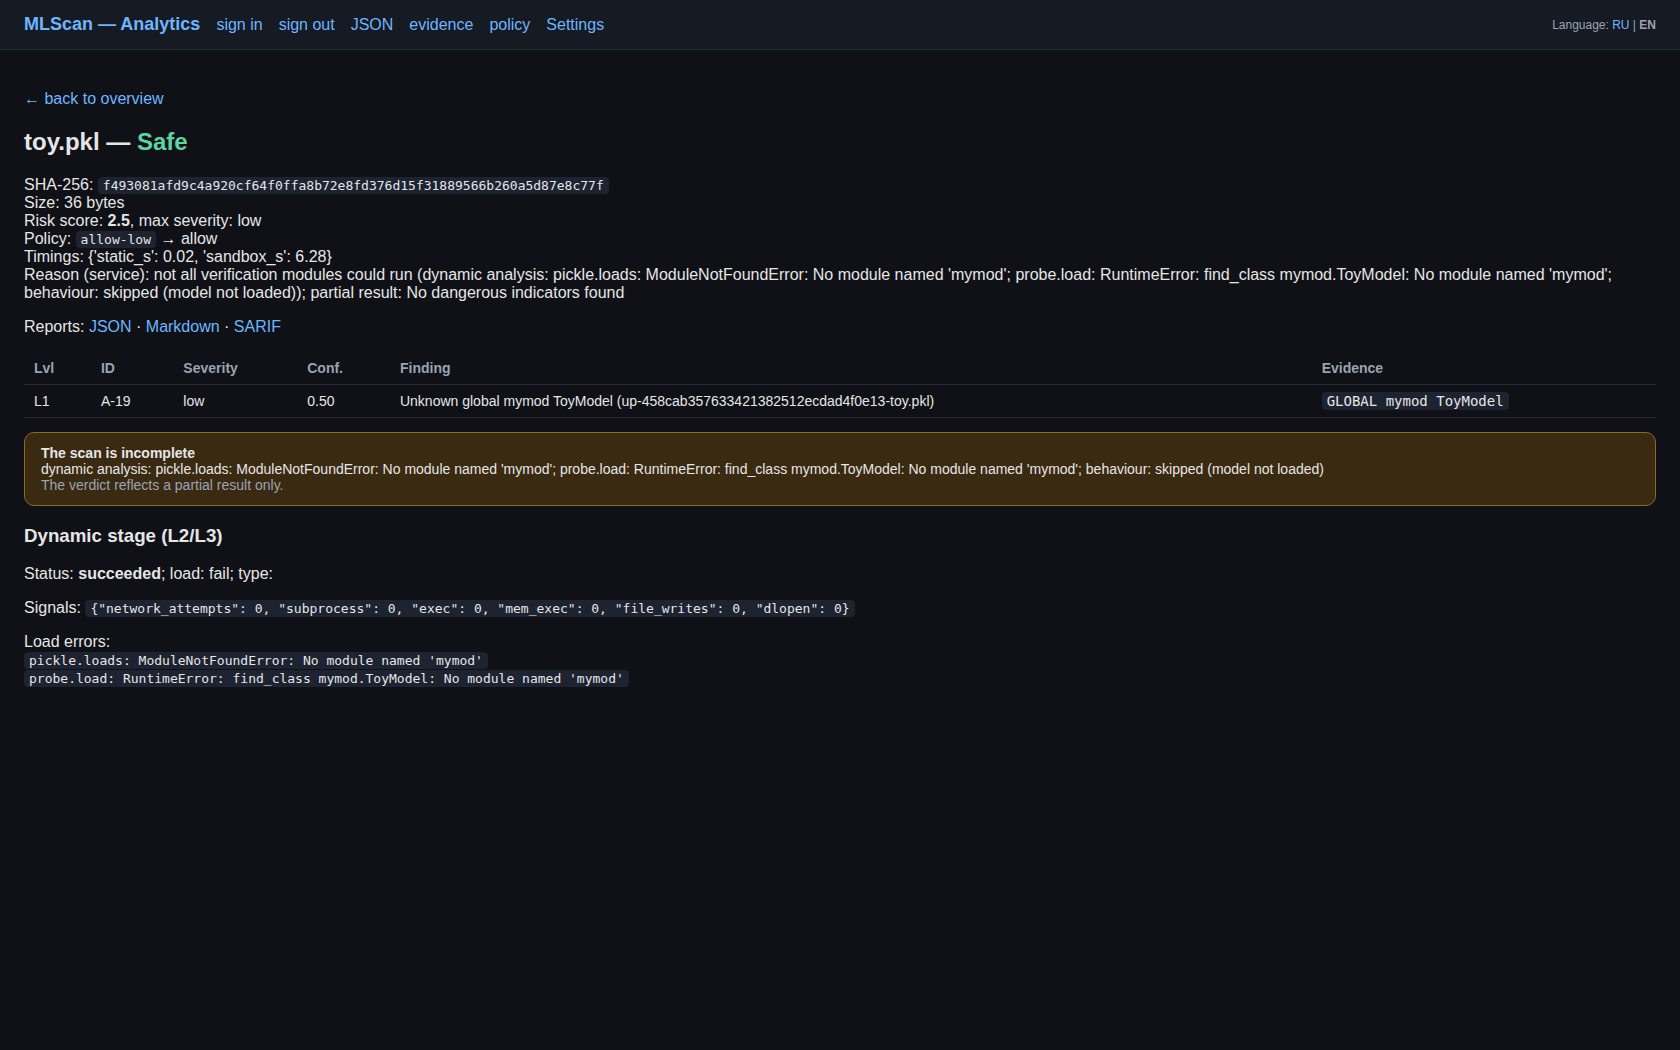
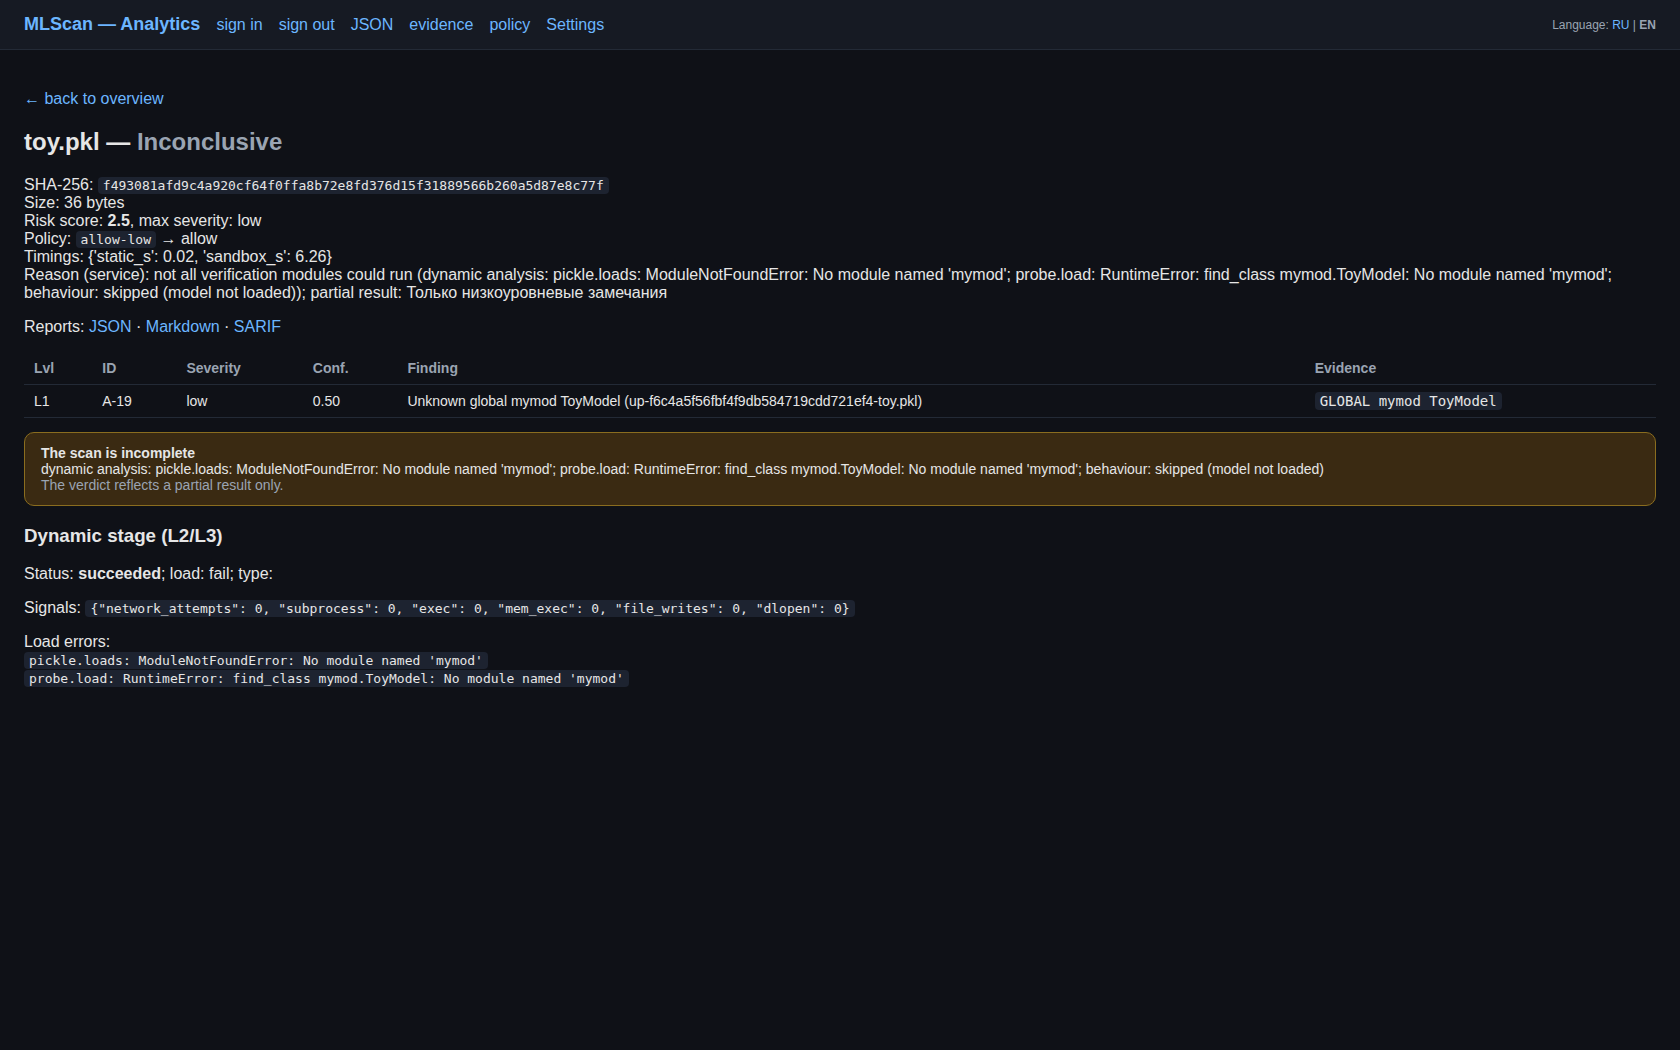
docs: actualize repository and UI screenshots
Screenshots (RU + EN, re-captured on the current stand with 3575 scans):
- login, login with an expired-session notice (new), dashboard, settings (global language),
  incomplete scan (Inconclusive + coverage banner), large torch model card, format (.mar) card;
- verified by OCR: 'Показано: 3575 из 3575' / 'Showing 3575 of 3575', INCONCLUSIVE/MALICIOUS cards,
  'Проверка выполнена не полностью' / 'The scan is incomplete', 'session has expired'.

Repository actualization:
- README (RU/EN): the formats section now lists every supported model/package/data format
  (notebooks, scripts, MLflow, SavedModel, TFLite, CoreML, PMML, Parquet/Arrow, TorchScript,
  Dockerfile, HTML/SVG, JSONL/CSV, compressed payloads, wheel/.pth, native libraries, msgpack,
  unsupported containers), the detector table gained SEC-* plus notes on nested archives, INJ-06,
  FMT-12, EXEC-08 and coverage-aware verdicts, and the sandbox image is described as :v4
  (+onnx, pyarrow, PyYAML); the screenshots section documents the new screenshots;
- docs/10: status raised to waves 1-7 implemented with a summary of each wave;
- Concept.md: implemented list extended with waves 4-7 and coverage accounting;
- docs/01 (RU/EN): pointer from the threat catalogue to the implemented checks and corpus;
- docs/09 (RU/EN): status notes that most of the analysed formats are implemented;
- docs/11 (RU/EN): implementation table gained coverage accounting and the corpus rows.

diff --git a/README.en.md b/README.en.md
@@ -126,9 +126,15 @@ planes (analytics, DB, UI) stay in the trusted zone.
 
 ### Formats
 
-pickle and derivatives (`.pkl/.pickle`, `.joblib`, `.dill`, `.cloudpickle`, `.pt/.pth/.bin/.ckpt`,
-`.npy/.npz`), SafeTensors, ONNX, HDF5/`.keras`, GGUF, archives (`.zip/.tar`), XML/YAML configs,
-model cards, tokenizer artifacts, MCP/agent manifests.
+**Models:** pickle and derivatives (`.pkl/.pickle`, `.joblib`, `.dill`, `.cloudpickle`,
+`.pt/.pth/.bin/.ckpt`), `.npy/.npz`, SafeTensors, ONNX, HDF5/`.keras`, GGUF, TFLite, CoreML,
+TorchScript/torch.package, TF SavedModel/`.pb`, PMML, MLflow models, model-as-code (`.mar`,
+`model.py`), Parquet/Arrow/Feather datasets.
+**Packages and data:** archives (`.zip/.tar/.tar.gz/.whl`), compressed payloads (`.gz/.bz2/.xz`),
+JSONL/CSV/TSV datasets, MessagePack, notebooks (`.ipynb`), scripts (`.sh/.ps1/.bat`), Dockerfiles,
+HTML/SVG documents, Jinja templates (`.j2`), XML/YAML/JSON configs, model cards, tokenizer artifacts,
+MCP/agent manifests, native libraries (`.so/.dll/.dylib`), `.pth` hooks, and unsupported containers
+(7z/rar/zstd - an honest "cannot be parsed").
 
 ### Detectors (check IDs)
 
@@ -143,11 +149,19 @@ model cards, tokenizer artifacts, MCP/agent manifests.
 | `INT-*` | integrity and supply chain (external URLs, install hooks in archives) |
 | `STEG-*` | covert channels (trailing data after EOCD, entropy blobs, polyglot containers) |
 | `D-*` | integrity/signature/provenance, "non-pickle" formats |
+| `SEC-*` | secret and token leaks (AWS keys, private keys, HF/GitHub/Slack tokens) |
 
-The sandbox image `mlscan-sandbox` (built with Kaniko) contains libraries for dynamic model
-execution: **PyTorch (CPU), numpy, safetensors, onnxruntime, h5py, gguf, joblib, dill,
-cloudpickle** — so models in pickle, torch, numpy and model-as-code formats are actually loaded
-and executed.
+Also: nested archives are traversed recursively (zip in zip), `INJ-06` covers CSV formula
+injection, `FMT-12` duplicate archive entries (parser differential) and `EXEC-08` native libraries.
+The verdict accounts for **coverage completeness**: when a verification module could not run (the
+model failed to load, a dependency is missing, a timeout), `Safe` becomes `Inconclusive` with a
+partial result - both in the testing service and in analytics/UI.
+
+The sandbox image `mlscan-sandbox:v4` (built with Kaniko) contains libraries for dynamic model
+execution and parsing: **PyTorch (CPU), numpy, safetensors, onnxruntime, onnx, h5py, gguf, pyarrow,
+PyYAML, joblib, dill, cloudpickle** — so models in pickle, torch, numpy and model-as-code formats are
+actually loaded and executed, while safetensors/ONNX/HDF5/GGUF/Keras/Parquet containers are parsed by
+dedicated libraries (mmap/schema).
 
 **An honest verdict when the scan is incomplete.** There are three modules (static L1, dynamic L2,
 behaviour L3). If a module could not run — the model failed to load (missing dependency),
@@ -201,11 +215,21 @@ analytics/ops/integrations); CI/scripts can sign in with an API key:
 
 ![MLScan UI — sign in](docs/img/en/ui-login.png)
 
+**Session expired** — when a session in an open tab runs out (12 h), the UI returns to the sign-in
+screen with a notice instead of silently showing an empty table:
+
+![MLScan UI — session expired](docs/img/en/ui-login-expired.png)
+
 **Dashboard** — model upload (including large files), statistics by verdict/volume, filtering by
 name and result, sorting by date/volume, a table with SHA-256, size, scan progress, verdict, risk
-score and policy action:
+score and policy action (the current stand holds 3575 scans):
 
 ![MLScan UI — dashboard](docs/img/en/ui-dashboard.png)
+
+**Settings** — the global message language of the whole system (available to the `admin` role; stored
+in the database and applied by every service to new and historical records):
+
+![MLScan UI — settings](docs/img/en/ui-settings.png)
 
 **Incomplete scan card** — a model the dynamic stage could not load (module `mymod` is missing):
 verdict **Inconclusive** instead of a false `Safe`, the banner "The scan is incomplete" and the

diff --git a/docs/10-plan-new-formats.md b/docs/10-plan-new-formats.md
@@ -5,9 +5,19 @@
 Предыдущий план (Этапы 0–5) — [`06-implementation-plan.md`](./06-implementation-plan.md) —
 **реализован** (см. отметку в нём).
 
-Статус: **Волна 0 и волны форматов 1–3 реализованы** (отметки ✅ ниже); план описывает
-выполненные доработки и оставшиеся шаги. Фактическое состояние — `07-implemented-architecture.md`,
-целевая архитектура — `11-target-architecture-v2.md`.
+Статус: **Волна 0 и волны форматов 1–7 реализованы** (отметки ✅ ниже); план описывает
+выполненные доработки и оставшиеся шаги. Помимо волн 1–3 (model-as-code, Keras, ONNX, HDF5, GGUF,
+архивы, XXE/unsafe-YAML, токенизаторы, prompt-injection, agent/MCP) реализованы:
+**волна 4** — ноутбуки, скрипты, MLflow, TF SavedModel, TFLite, CoreML, PMML, датасеты
+Parquet/Arrow, TorchScript-код; **волна 5** — wheel/`.pth`-хуки, нативные библиотеки, Jinja-шаблоны
+промптов, Keras/HDF5 с Lambda, индексы safetensors, поведенческие проверки
+(`F-20/F-21/F-23/F-25/F-26/F-27/F-30/F-31/F-33`); **волна 6** — HTML/SVG, Dockerfile, GGUF
+chat_template, вложенные архивы, битые контейнеры, ONNX custom ops; **волна 7** — сжатые payload'ы,
+JSONL/CSV-датасеты, утечки секретов (`SEC-01`), MessagePack, дубликаты записей (`FMT-12`),
+tar-bomb, маскировка формата, неподдерживаемые контейнеры. Дополнительно: локализация RU/EN,
+учёт полноты покрытия в вердикте, синтетический корпус (141 образец).
+Фактическое состояние — `07-implemented-architecture.md`, целевая архитектура —
+`11-target-architecture-v2.md`.
 
 ---
 

diff --git a/docs/09-formats-and-backdoors-analysis.md b/docs/09-formats-and-backdoors-analysis.md
@@ -1,8 +1,13 @@
 # 09. Анализ форматов ML/AI-моделей и данных: что ещё нужно проверять на безопасность
 
-Статус: черновик для проработки. Цель — определить, **какие ещё форматы** моделей и данных
-в ML/AI требуют анализа на безопасность, **какие закладки** в них бывают и **что именно**
-надо проверять, чтобы затем расширить MLScan.
+Статус: **основная часть проанализированных форматов реализована** (волны форматов 1–7:
+model-as-code, Keras, ONNX, HDF5, GGUF, архивы, XXE/unsafe-YAML, токенизаторы, prompt-injection,
+agent/MCP, ноутбуки, скрипты, MLflow, TF SavedModel, TFLite, CoreML, PMML, датасеты Parquet/Arrow,
+TorchScript, wheel/`.pth`, нативные библиотеки, Jinja, HTML/SVG, Dockerfile, сжатые payload'ы,
+JSONL/CSV, MessagePack, утечки секретов, дубликаты записей, tar-bomb). Цель документа — определить,
+**какие ещё форматы** моделей и данных в ML/AI требуют анализа на безопасность, **какие закладки**
+в них бывают и **что именно** надо проверять. Что реализовано — [`07-implemented-architecture.md`](./07-implemented-architecture.md),
+план — [`10-plan-new-formats.md`](./10-plan-new-formats.md).
 
 ---
 

diff --git a/Concept.md b/Concept.md
@@ -54,6 +54,13 @@
 - **v2, волны форматов 1–3** — адаптеры и детекторы вне pickle (model-as-code, Keras, ONNX, HDF5,
   GGUF, архивы, XXE/unsafe-YAML, токенизаторы, prompt-injection, agent/MCP), динамика
   model-as-code; чек-иды `EXEC/INJ/AGT/BD/FMT/INT/STEG`/`D`.
+- **v2, волны форматов 4–7** — ноутбуки, скрипты, MLflow, TF SavedModel, TFLite, CoreML, PMML,
+  датасеты Parquet/Arrow, TorchScript-код, wheel/`.pth`-хуки, нативные библиотеки (`EXEC-08`),
+  Jinja-шаблоны промптов, HTML/SVG, Dockerfile, GGUF chat_template, вложенные архивы, сжатые
+  payload'ы (`.gz/.bz2/.xz`), JSONL/CSV-датасеты (`INJ-06`), MessagePack, утечки секретов
+  (`SEC-01`), дубликаты записей (`FMT-12`), tar-bomb и маскировка формата (`FMT-02`).
+- **Полнота покрытия** — если модуль проверки не смог отработать, вердикт `Safe` заменяется на
+  `Inconclusive` с частичным результатом (в сервисе тестирования и в аналитике/UI).
 - **Локализация** — UI и сообщения сервисов на **RU/EN** с глобальной настройкой языка
   (`MLSCAN_LANG` при запуске или настройка в БД; см. `docs/12-i18n.md`).
 

diff --git a/docs/11-target-architecture-v2.md b/docs/11-target-architecture-v2.md
@@ -22,6 +22,8 @@
 | Retention/TTL и карантин | ✅ (`deploy/v2/lifecycle`, `mlscan-lifecycle`) |
 | Адаптеры форматов и детекторы (model-as-code, Keras, ONNX, HDF5, GGUF, архивы, XXE, токенизаторы, prompt-injection, agent/MCP) | ✅ (`deploy/v2/formats`) |
 | Локализация UI и сообщений RU/EN, глобальная настройка языка | ✅ (`deploy/i18n`, [`12-i18n.md`](./12-i18n.md)) |
+| Учёт полноты покрытия в вердикте (`Inconclusive` вместо ложного `Safe`) | ✅ (`poc.decide`, аналитика, UI-баннер) |
+| Синтетический корпус примеров (141: 87 с закладками + 54 безопасных, включая ~198 МБ) | ✅ (`tests/vulnerabilities`, `REPORT.md`) |
 | Multipart/presigned direct-to-S3, mmap-профили, карантин object-lock, Keycloak/mTLS | ⏳ план |
 
 ---

diff --git a/docs/01-threat-checklist.md b/docs/01-threat-checklist.md
@@ -27,6 +27,11 @@
 
 ---
 
+> **Реализованные проверки** (чек-иды `A-*`, `EXEC-*`, `INJ-*`, `AGT-*`, `BD-*`, `FMT-*`,
+> `INT-*`, `STEG-*`, `SEC-*`, `D-*`) и их соответствие классам риска — в
+> [`07-implemented-architecture.md`](./07-implemented-architecture.md); фактический корпус
+> примеров (с закладками и без) — [`../tests/vulnerabilities/`](../tests/vulnerabilities).
+
 ## A. Риски десериализации (execution-time)
 
 | ID | Риск | Механизм | Наблюдаемые признаки | Severity |
